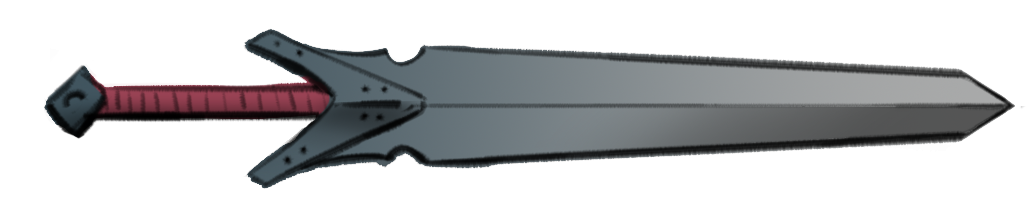
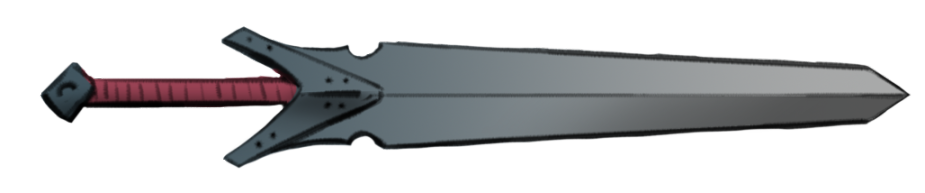
Final iteration. Fixed shortsword transparency, added contact info, and fine tuned button

diff --git a/script.js b/script.js
@@ -1,10 +1,16 @@
+/*
+Developed by: Marcus Nelson
+Email: retiredpedestrian@protonmail.com
+Twitter: https://twitter.com/pedestrianite
+*/
+
 let imageContainer = document.getElementById('image-container');
 let textContainer = document.getElementById('text-container');
   //main code for generating weapon, only function, and it is called by the button
 
 function GenerateWeapon() {
 
-  //the arrays for storing all of the words used in generation of Weapons (coutesy hacker Andrew)
+  //an array of objects pertaining to the potential weapon types and their stats
   const weapons = [{name: 'Longsword', Attack: '+1', Defense: '+1', Recover: '-1', Traits: 'Combo 2', Type: 'S/P'},
                    {name: 'Shortsword', Attack: '+1', Defense: '0', Recover: '0', Traits: 'Combo 2, Parry', Type: 'S/P'},
                    {name: 'Rapier', Attack: '0', Defense: '+1', Recover: '0', Traits: 'Combo 3, Parry', Type: 'P'},
@@ -105,6 +111,7 @@ function GenerateWeapon() {
                    {name: 'Light Machine Gun', Attack: '+3', Defense: '0', Recover: '-2', Traits: 'Ammo 30, Firearm, Full Auto 3, Range M', Type: 'P'},
                    {name: 'High-Caliber Rifle', Attack: '+4', Defense: '0', Recover: '-3', Traits: 'Ammo 1, Firearm, Penetration, Range L', Type: 'P'},
                    {name: 'Culverin', Attack: '+5', Defense: '0', Recover: '-4', Traits: 'Ammo 1, Firearm, Penetration, Range M', Type: 'P'}]
+  //library of arrays and generates the random numbers
   const build = ["Single", "Combo", "Paired"];
   const perk = ["Great", "Collapsable", "Akimbo"];
   const ruin = ["Breaching", "Devastating", "Explosive", "Flame Imbued", "Superheated", "Volcanic"];
@@ -120,8 +127,13 @@ function GenerateWeapon() {
   let powerImage2 = document.createElement('img');
   let weapNum = 0;
   let weapNum2 = 0;
+  weapNum = generateNumber(100);
+  let corrupNum = generateNumber(6);
+  let powNum = generateNumber(6);
+  let weaponStats2 = '';
+  let Output = '';
 
-  //checks to see if previous weapon generation is still there and removes it
+  //checks to see if previous weapon generation images are still there and removes them
   if (imageContainer.hasChildNodes()) {
    do {
     imageContainer.removeChild(imageContainer.childNodes[0]);
@@ -138,30 +150,24 @@ function GenerateWeapon() {
   }
 
 
-  let corrupNum = generateNumber(6);
-  let powNum = generateNumber(6);
-  let weaponStats2 = '';
-  let Output = '';
 
-  //generates and determines the power for the weapon
   function findPower (corrupNumber, powerNumber, position) {
     let corrupType = corruptions[corrupNumber];
     Output += (corrupType[powerNumber] + " ");
     if (position == 1) {
       powerImage.classList.add('power-image');
       powerImage.src = `images/powers/${corrupType[powerNumber]}.png`;
-      powerImage.style.cssText = 'height: 100px; width: 100px; margin: 0 2px 0 2px;'
+      powerImage.style.cssText = 'height: 100px; width: 100px;'
       imageContainer.appendChild(powerImage);
     }
     else if (position == 2) {
       powerImage2.classList.add('power-image');
       powerImage2.src = `images/powers/${corrupType[powerNumber]}.png`;
-      powerImage2.style.cssText = 'height: 100px; width: 100px; margin: 0 2px 0 2px;'
+      powerImage2.style.cssText = 'height: 100px; width: 100px;'
       imageContainer.appendChild(powerImage2);
     }
   }
 
-  weapNum = generateNumber(100);
 
 
   function determineWeaponAttribute () {
@@ -184,20 +190,24 @@ function GenerateWeapon() {
                     Recovery: ${weapons[weapNum2].Recover} | Traits: ${weapons[weapNum2].Traits} |  Damage Type: ${weapons[weapNum2].Type}`
         textContainer.appendChild(weaponStats2);
     }
+    else {
+      weaponStats2 = document.createElement('br');
+      textContainer.appendChild(weaponStats2)
+    }
   }
 
   function appendWeaponImages () {
     //adds the weapon image then stats to the DOM
     weaponImage.classList.add('weapon-image');
     weaponImage.src = `images/weapons/${weapons[weapNum].name}.png`;
-    weaponImage.style.cssText = 'height: auto; width: auto; max-height: 100px; max-width: 300px; margin: 0 2px 0 2px;'
+    weaponImage.style.cssText = 'height: auto; width: auto; max-height: 100px; max-width: 300px;'
     imageContainer.appendChild(weaponImage);
 
     //secondary weapon info if available
     if(weapNum2) {
       weaponImage2.classList.add('weapon-image');
       weaponImage2.src = `images/weapons/${weapons[weapNum2].name}.png`;
-      weaponImage2.style.cssText = 'height: auto; width: auto; max-height: 100px; max-width: 300px; margin: 0 2px 0 2px;'
+      weaponImage2.style.cssText = 'height: auto; width: auto; max-height: 100px; max-width: 300px;'
       imageContainer.appendChild(weaponImage2);
     }
   }
@@ -236,8 +246,6 @@ function GenerateWeapon() {
   }
 
   buildWeapon();
-
-
 
 
   document.getElementById("Output").innerHTML=Output;

diff --git a/index.html b/index.html
@@ -1,3 +1,9 @@
+<!--
+Developed by: Marcus Nelson
+Email: retiredpedestrian@protonmail.com
+Twitter: https://twitter.com/pedestrianite
+-->
+
 <!DOCTYPE html>
 <html lang="en" dir="ltr">
   <head>
@@ -10,9 +16,11 @@
     <title></title>
   </head>
   <body>
-    <div id="image-container"></div>
-    <p id="Output"></p>
-    <div id="text-container"></div>
-    <input type="button" id="generate-weapon" value="Generate Weapon" onclick= "GenerateWeapon();" />
+    <div class="app-container">
+      <div id="image-container"></div>
+      <p id="Output"></p>
+      <div id="text-container"></div>
+      <input type="button" id="generate-weapon" value="Generate Weapon" onclick= "GenerateWeapon();" />
+    </div>
   </body>
 </html>

diff --git a/style.css b/style.css
@@ -1,4 +1,8 @@
 #generate-weapon {
+  position: relative;
+  top: 40%;
+  margin-left: 10%;
+  margin-top: 25px;
   font-family: "Kufam";
   font-size: 110%;
   color: white;
@@ -6,14 +10,23 @@
   border: none;
   border-radius: 4px;
   padding: 18px 40px;
-  background: rgba(28, 230, 89, 0.8);
+  background-image: linear-gradient(to bottom, rgba(131, 47, 47, 0.8), rgba(131, 50, 50, 0.8));
 }
 
 #generate-weapon:hover {
   color: #f1f1f1;
-  background: rgba(27, 220, 85, 0.8);
 }
 
 #Output {
+  font-size: 125%;
   font-family: "Kufam";
+}
+
+.weapon-stats {
+  font-family: "Kufam";
+}
+
+.power-image, .weapon-image {
+  display: inline;
+  text-align: center;
 }
